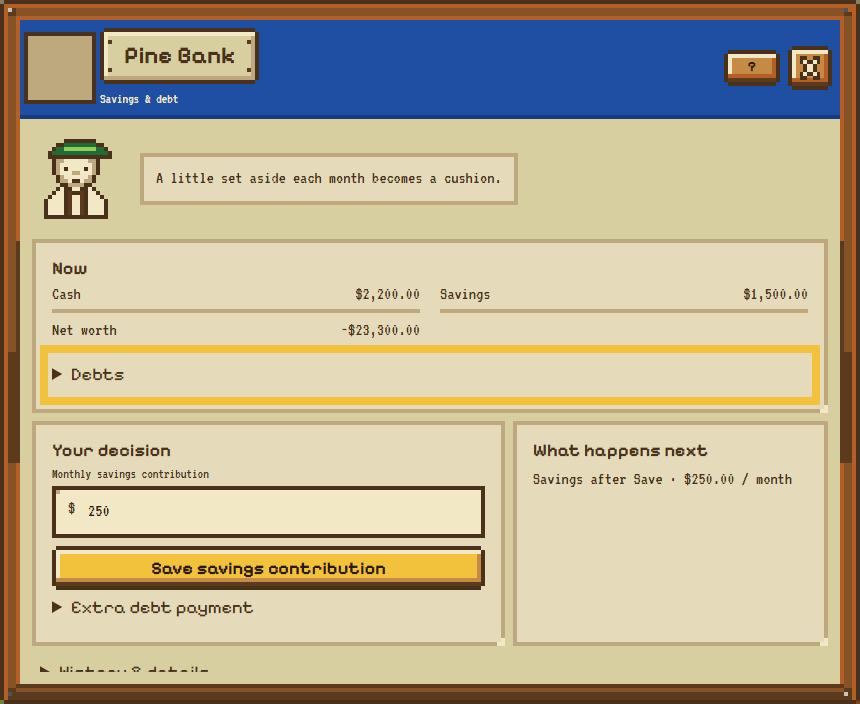
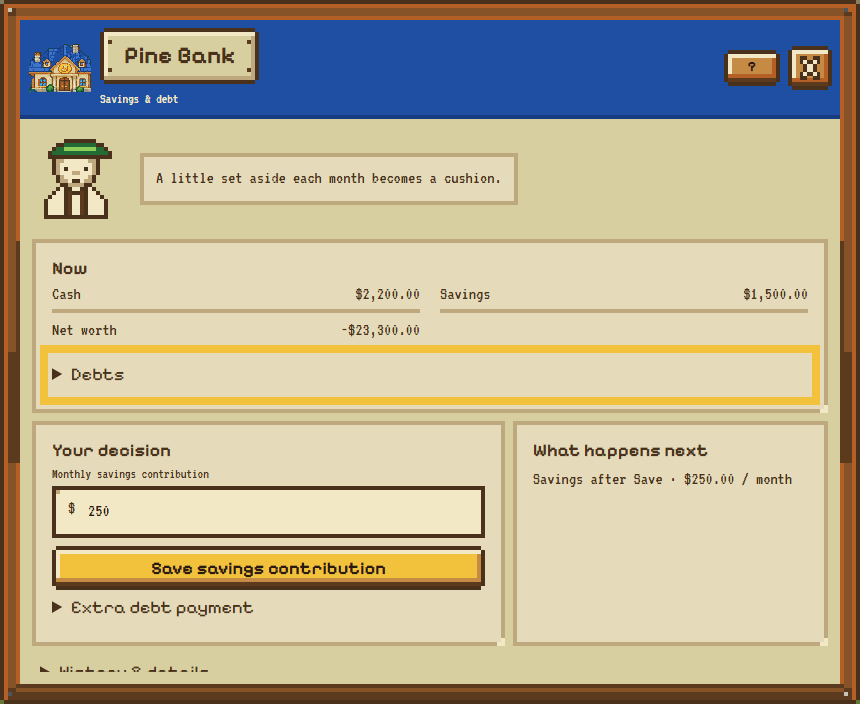
[agent3] finalize sprite integration and verified window handoff

Changed region(s): [[0.0302, 0.0312, 0.1209, 0.1562], [0.9977, 0.9688, 1.0, 1.0]]

diff --git a/src/components/panels/windows.css b/src/components/panels/windows.css
@@ -26,6 +26,8 @@
 .ft-sheet__popover::before { content: ''; display: block; width: calc(2 * var(--px)); height: calc(2 * var(--px)); background: var(--c-gold); margin: 0 auto calc(-2 * var(--px)); position: relative; z-index: 1; }
 .ft-sheet__help-heading { margin-bottom: calc(2 * var(--px)); }
 .ft-window-hint { grid-area: hint; margin: 0; color: var(--c-paper); font: var(--fs-label)/1.1 var(--font-body); }
+/* The world also calls its floating signs fv-plaque; keep kit header plaques in flow. */
+.fv-window__header > h2 > .fv-plaque { position: static; inset: auto; display: inline-block; text-align: left; pointer-events: auto; }
 .fv-window:has(.ft-building-portrait) { --building-roof: var(--c-roof-red); --building-roof-dark: var(--c-roof-red-dark); max-width: calc(100vw - 10 * var(--px)); }
 .fv-window:has([data-building='bank']) { --building-roof: var(--c-roof-blue); --building-roof-dark: var(--c-roof-blue-dark); }
 .fv-window:has([data-building='office']) { --building-roof: var(--c-roof-teal); --building-roof-dark: var(--c-roof-teal-dark); }

diff --git a/src/components/panels/panels.browser.ts b/src/components/panels/panels.browser.ts
@@ -80,6 +80,7 @@ for (const viewport of [{ width: 1366, height: 768 }, { width: 1440, height: 900
       await opener.focus(); await page.keyboard.press('Enter');
       const dialog = page.getByRole('dialog', { name, exact: true });
       await expect(dialog).toBeVisible();
+      await expect(dialog.getByRole('heading', { name, exact: true })).toBeVisible();
       const box = await dialog.boundingBox();
       expect(box!.x).toBeGreaterThanOrEqual(0); expect(box!.y).toBeGreaterThanOrEqual(0);
       expect(box!.x + box!.width).toBeLessThanOrEqual(viewport.width);

diff --git a/src/components/panels/WINDOW_HANDOFF.md b/src/components/panels/WINDOW_HANDOFF.md
@@ -29,7 +29,10 @@ option descriptions. Saved feedback expires after two seconds; errors persist.
 Run `node art-src/windows/compile-keepers.mjs` to compile only the keeper assets
 through the shared parser/palette/renderer. The integrator's next full art compile
 will add these grids to the generated global manifest. The shared BuildingPortrait
-is used directly; its current main implementation is still Agent 1's stub.
+now uses Agent 1's real world sprites. Headers choose a smaller whole-number zoom
+for these large building sprites; no fractional scaling is used. The window header
+also resets the world renderer's conflicting global fv-plaque positioning so the
+kit's name plaque stays in flow. Agent 1 can later scope its world plaque selector.
 
 Kit compatibility notes for Agent 2: NumberField currently discards empty drafts
 and string editing states, so money/allocation inputs use the kit's Field with
@@ -37,13 +40,17 @@ native number props. Slider currently drops disabled/aria-label/aria-invalid and
 aria-describedby props; Home keeps its native range with the shared fv-slider
 material until those props can be forwarded. No local control material is drawn.
 
-Validation: typecheck, production build and all 185 unit tests pass. The owned
-browser checks pass for all five windows at 1366x768 and 1440x900, both stress
-routes and the desktop/mobile Bank help/focus flow. The mobile opener uses keyboard
-activation because the shared HUD status currently intercepts the Bank hotspot.
+Validation on the real-world base: typecheck, production build and all 190 unit tests pass. All six
+owned browser checks pass (two laptop-only cases are intentionally skipped in the
+mobile project): all five windows at 1366x768 and 1440x900, both stress routes and
+desktop/mobile Bank help/focus. The mobile opener uses keyboard activation so the
+panel suite stays independent of the shared town's pointer overlays.
 
 Shared root smoke failures to coordinate (not changed here):
-- Agent 2: mobile HUD/gallery controls intercept pointer clicks; gallery image
-  readiness races at scale 4 (`img.complete` check without waiting for loading).
+- Agent 2: mobile gallery controls intercept pointer clicks at scales 4 and 6.
+- Agent 4: the mobile coach tip intercepts town building clicks.
 - Agent 4/5: the town test expects a `Your next chapter` dialog, while the new
   finish flow no longer renders that dialog immediately.
+
+The final root smoke run has 23 passing, four failing and three skipped checks.
+No other agent's tests were edited. PR: https://github.com/SuhasProjects/financegamething/pull/12
